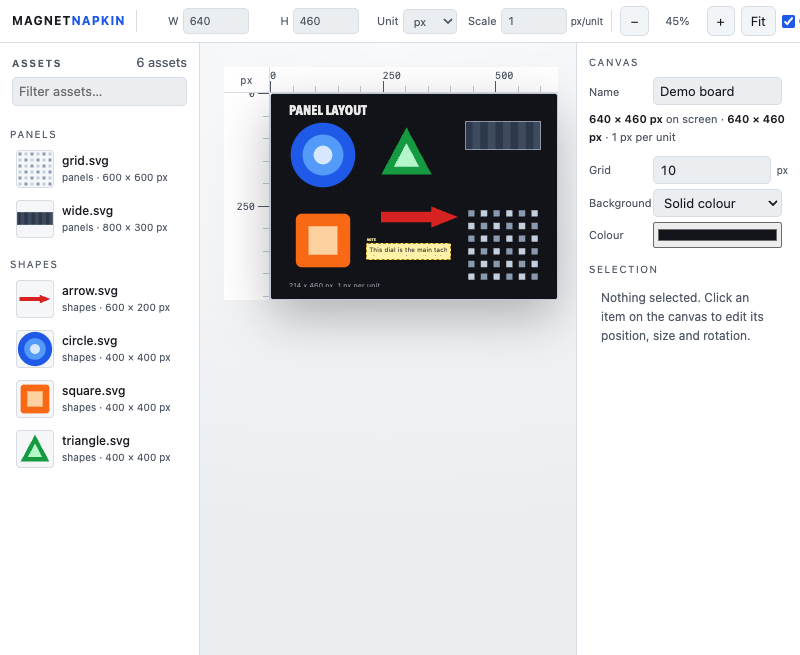
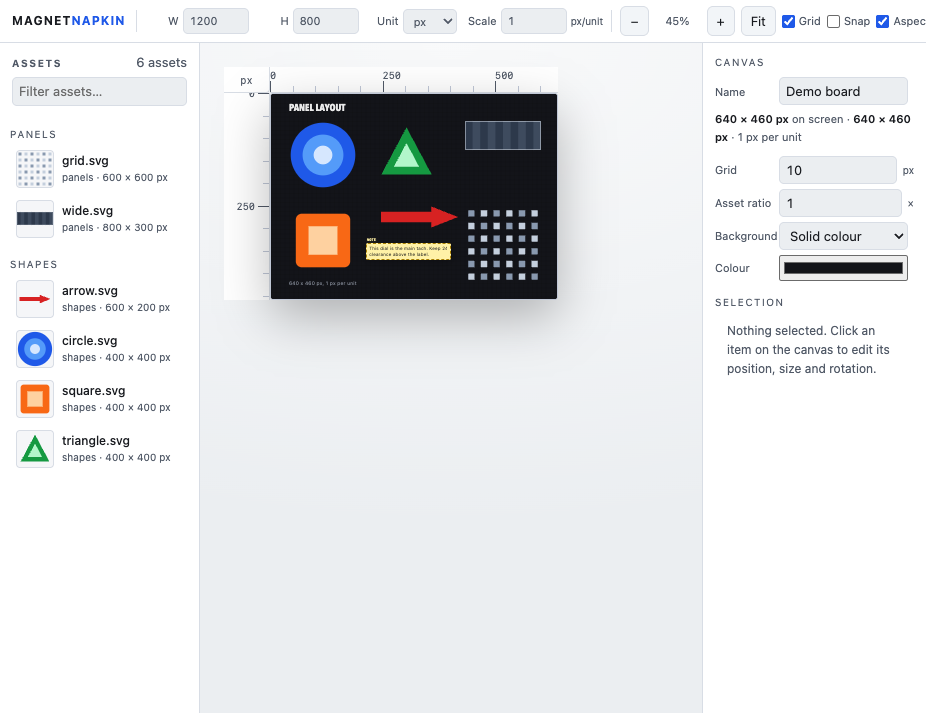
fix: let the mouse reach the artwork, and stop a double click placing two copies

diff --git a/tests/smoke.html b/tests/smoke.html
@@ -115,15 +115,45 @@ frame.addEventListener("load", async function () {
     const note = MN.interact.placeNote("a note");
     log("note is not an item", state.items.indexOf(note) < 0 && state.notes.length === 1);
 
+    /* The mouse must be able to reach an item. The layers are containers, not
+       surfaces: an empty notes layer that catches the pointer swallows every
+       click on the artwork. */
+    const imageEl = MN.items.elementFor(item.id);
+    const imageRect = imageEl.getBoundingClientRect();
+    const hit = w.document.elementFromPoint(
+      Math.round(imageRect.left + imageRect.width / 2),
+      Math.round(imageRect.top + imageRect.height / 2));
+    log("the item is under the pointer", !!hit && imageEl.contains(hit),
+      hit ? (hit.id || hit.className) : "nothing there");
+
+    /* And a press on that spot must select it. */
+    const pressed = { x: 0, y: 0 };
+    if (hit) {
+      const fire = function (type, dx, dy) {
+        hit.dispatchEvent(new w.PointerEvent(type, {
+          clientX: imageRect.left + imageRect.width / 2 + dx,
+          clientY: imageRect.top + imageRect.height / 2 + dy,
+          bubbles: true, cancelable: true, pointerId: 3, button: 0, buttons: 1,
+        }));
+      };
+      fire("pointerdown", 0, 0);
+      pressed.selected = state.selection ? state.selection.id : null;
+      fire("pointermove", 30, 20);
+      fire("pointerup", 30, 20);
+      pressed.moved = Math.abs(item.x - 10) > 1 || Math.abs(item.y - 10) > 1;
+    }
+    log("a press selects the item", pressed.selected === item.id, String(pressed.selected));
+    log("a press moves the item", pressed.moved === true);
+
     /* undo and redo */
     const before = state.items.length;
     const historyBefore = S.history.past.length;
     const undoResult = S.undo();
     const afterUndo = state.items.length;
     const historyAfter = S.history.past.length;
-    /* Three commits so far: the text, the image and the note. One undo takes
-       the note away again. */
-    log("diag undo", undoResult === true && afterUndo === 2 && historyBefore === 4,
+    /* Four or more commits so far: the text, the image, the note and the
+       press. One undo takes the note away again. */
+    log("diag undo", undoResult === true && afterUndo === 2 && historyBefore >= 4,
       "returned=" + undoResult + " items=" + afterUndo + " historyBefore=" + historyBefore + " historyAfter=" + historyAfter);
     S.redo();
     /* The undo took the note away, the redo put it back. */

diff --git a/js/inspector.js b/js/inspector.js
@@ -104,16 +104,39 @@
     const bgSelect = core.el("select", { id: "i-bg", "aria-label": "Canvas background" }, [
       core.el("option", { value: "checker", text: "Checker" }),
       core.el("option", { value: "color", text: "Solid colour" }),
+      core.el("option", { value: "image", text: "Image" }),
     ]);
-    bgSelect.value = bg.type === "color" ? "color" : "checker";
+    bgSelect.value = ["color", "image"].indexOf(bg.type) >= 0 ? bg.type : "checker";
     bgSelect.addEventListener("change", function () {
-      state.canvas.background = bgSelect.value === "color"
-        ? { type: "color", value: (state.canvas.background && state.canvas.background.value) || "#eef0f3" }
-        : { type: "checker", value: "#eef0f3" };
+      const value = state.canvas.background && state.canvas.background.value;
+      if (bgSelect.value === "color") {
+        state.canvas.background = { type: "color", value: value && value.charAt(0) === "#" ? value : "#eef0f3" };
+      } else if (bgSelect.value === "image") {
+        state.canvas.background = { type: "image", value: value || (state.assets[0] ? state.assets[0].id : "") };
+      } else {
+        state.canvas.background = { type: "checker", value: "#eef0f3" };
+      }
       S.commit("background");
       render();
     });
     frag.appendChild(row("Background", bgSelect));
+
+    if (bgSelect.value === "image") {
+      const assetSelect = core.el("select", { id: "i-bg-image", "aria-label": "Background image" },
+        state.assets.map(function (asset) {
+          return core.el("option", { value: asset.id, text: asset.name });
+        }));
+      if (!state.assets.length) {
+        assetSelect.appendChild(core.el("option", { value: "", text: "No images imported yet" }));
+      }
+      assetSelect.value = bg.value || "";
+      assetSelect.addEventListener("change", function () {
+        state.canvas.background = { type: "image", value: assetSelect.value };
+        MN.stage.applyBackground();
+        S.commit("background image");
+      });
+      frag.appendChild(row("Image", assetSelect));
+    }
 
     if (bgSelect.value === "color") {
       const colour = core.el("input", {

diff --git a/js/interact.js b/js/interact.js
@@ -268,12 +268,26 @@
     const tray = core.$("#tray-scroll");
     if (!tray) return;
 
+    /* A double click should place one asset, not two. */
+    let lastPlacement = null;
+
+    function placeFromTray(asset) {
+      const now = Date.now();
+      if (lastPlacement && lastPlacement.assetId === asset.id && now - lastPlacement.at < 400) {
+        lastPlacement.at = now;
+        return null;
+      }
+      const item = placeAsset(asset, canvasCentre().x, canvasCentre().y);
+      lastPlacement = { assetId: asset.id, itemId: item.id, at: now };
+      return item;
+    }
+
     tray.addEventListener("click", function (e) {
       const row = e.target.closest ? e.target.closest(".tray-item") : null;
       if (!row) return;
       const asset = S.findAsset(row.dataset.id);
       if (!asset) return;
-      placeAsset(asset, canvasCentre().x, canvasCentre().y);
+      placeFromTray(asset);
     });
 
     /* The tray works from the keyboard too. */
@@ -284,7 +298,7 @@
       e.preventDefault();
       const asset = S.findAsset(row.dataset.id);
       if (!asset) return;
-      placeAsset(asset, canvasCentre().x, canvasCentre().y);
+      placeFromTray(asset);
     });
 
     tray.addEventListener("dragstart", function (e) {

diff --git a/styles.css b/styles.css
@@ -377,7 +377,11 @@ body.dropping::after {
 }
 
 #bg, #grid, #items, #notes, #guides { position: absolute; inset: 0; }
-#bg, #grid, #guides { pointer-events: none; }
+
+/* The layers are containers, not surfaces. If they caught the pointer, the
+   empty notes layer would sit over the items and swallow every click. */
+#bg, #grid, #guides, #items, #notes { pointer-events: none; }
+.magnet { pointer-events: auto; }
 
 #bg.checker {
   background-color: #f6f7f9;
